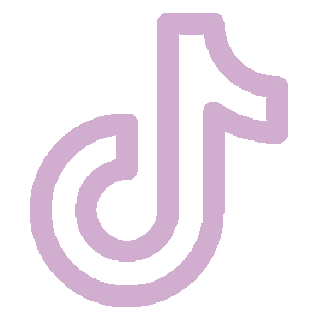
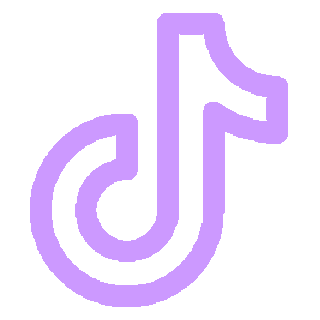
Add band design template

Changed region(s): [[0.0938, 0.0312, 0.9062, 0.9688]]

diff --git a/index.html b/index.html
@@ -16,6 +16,7 @@
     <meta http-equiv='expires' content='0'>
     <meta http-equiv='pragma' content='no-cache'>
     <link href="https://2sotypen.de" rel="canonical">
+    <link rel="stylesheet" href="https://cdn.jsdelivr.net/npm/bootstrap@4.3.1/dist/css/bootstrap.min.css" integrity="sha384-ggOyR0iXCbMQv3Xipma34MD+dH/1fQ784/j6cY/iJTQUOhcWr7x9JvoRxT2MZw1T" crossorigin="anonymous">
     <link rel="stylesheet" href="/style.css">
     <script src="/script.js"></script>
     <title>2sotypen | aus Rodgau</title>
@@ -88,6 +89,30 @@
         <section>
           <h3 id="gallery">2sotypen Live</h3>
 
+            <!-- CAROUSEL START -->
+            <div id="imageCarousel" class="carousel slide mb-5" data-ride="carousel">
+              <div class="carousel-inner mx-auto">
+                  <div class="carousel-item active">
+                      <img src="/img/logo/logo_black.png" class="d-block w-100" alt="">
+                  </div>
+                  <div class="carousel-item">
+                      <img src="/img/logo/logo_blue.png" class="d-block w-100" alt="">
+                  </div>
+                  <div class="carousel-item">
+                    <img src="/img/logo/logo_lila.png" class="d-block w-100" alt="">
+                </div>
+              </div>
+              <a class="carousel-control-prev" href="#imageCarousel" role="button" data-slide="prev">
+                  <span class="carousel-control-prev-icon" aria-hidden="true"></span>
+                  <span class="sr-only">next</span>
+              </a>
+              <a class="carousel-control-next" href="#imageCarousel" role="button" data-slide="next">
+                  <span class="carousel-control-next-icon" aria-hidden="true"></span>
+                  <span class="sr-only">previous</span>
+              </a>
+          </div>
+          <!-- CAROUSEL END -->
+
           <div class="container">
 
 
@@ -151,7 +176,6 @@
                 <a href="https://www.instagram.com/2sotypen/"><img class="contact-icon" src="/img/ico/instagram.png" alt="Link für Instagram"></a>
                 <a href="https://www.facebook.com/2sotypen/"><img class="contact-icon" src="/img/ico/facebook.png" alt="Link für Facebook"></a>
                 <a href="https://www.tiktok.com/@2sotypen"><img class="contact-icon" src="/img/ico/tiktok.png" alt="Link für Tiktok"></a>
-                <a href=""><img class="contact-icon" src="/img/ico/linkedin.png" alt="Link für YouTube"></a>
                 <a href="https://www.youtube.com/@2sotypen"><img class="contact-icon" src="/img/ico/youtube.png" alt="Link für YouTube"></a>
               </address>
               <!-- END CONTACT SECTION-->
@@ -176,7 +200,11 @@
       <p id="copyright">&copy; 2024 2sotypen</p>
     </footer>
     <!-- END FOOTER -->
-  
+
+    <script src="https://code.jquery.com/jquery-3.3.1.slim.min.js" integrity="sha384-q8i/X+965DzO0rT7abK41JStQIAqVgRVzpbzo5smXKp4YfRvH+8abtTE1Pi6jizo" crossorigin="anonymous"></script>
+    <script src="https://cdn.jsdelivr.net/npm/popper.js@1.14.7/dist/umd/popper.min.js" integrity="sha384-UO2eT0CpHqdSJQ6hJty5KVphtPhzWj9WO1clHTMGa3JDZwrnQq4sF86dIHNDz0W1" crossorigin="anonymous"></script>
+    <script src="https://cdn.jsdelivr.net/npm/bootstrap@4.3.1/dist/js/bootstrap.min.js" integrity="sha384-JjSmVgyd0p3pXB1rRibZUAYoIIy6OrQ6VrjIEaFf/nJGzIxFDsf4x0xIM+B07jRM" crossorigin="anonymous"></script>
+
   </body>
   <!-- END BODY -->
 

diff --git a/style.css b/style.css
@@ -3,8 +3,12 @@
   --color-white: #FFFFFF;
   --color-black: #000000;
   --color-grey: #333333;
-  --color-blue: #63add2;
-  --color-pink: #d1adcf;
+  --color-turqouise: #66ffb3;
+  --color-green: #c2fc00;
+  --color-lila: #cc99ff;
+  --color-yellow: #ffff99;
+  --color-blue: #87f2f2;
+  --color-apricot: #ff7373;
   --font-family-futura: 'Futura', Arial, sans-serif;
   --font-family-jellyka: 'Jellyka', Arial, sans-serif;
   --font-size-big: calc(4rem + 2vw);
@@ -19,16 +23,14 @@
        url('../font/Futura.ttf') format('woff'),
        url('../font/Futura.ttf')  format('truetype'),
        url('../font/Futura.ttf') format('svg');
-}
-
-@font-face {
+  
   font-family: 'Jellyka';
   src: url('../font/Jellyka.ttf');
   src: url('../font/Jellyka.ttf') format('embedded-opentype'),
-       url('../font/Jellyka.ttf') format('woff2'),
-       url('../font/Jellyka.ttf') format('woff'),
-       url('../font/Jellyka.ttf')  format('truetype'),
-       url('../font/Jellyka.ttf') format('svg');
+      url('../font/Jellyka.ttf') format('woff2'),
+      url('../font/Jellyka.ttf') format('woff'),
+      url('../font/Jellyka.ttf')  format('truetype'),
+      url('../font/Jellyka.ttf') format('svg');
 }
 
 * {
@@ -84,7 +86,6 @@ display: flex;
 flex-direction: column;
 align-items: center;
 text-align: center;
-padding: 5px;
 }
 
 nav {
@@ -114,6 +115,32 @@ section {
 
 .container {
   padding: 20px;
+}
+
+.carousel-container {
+  display: flex;
+  justify-content: center;
+  align-items: center;
+  height: 100vh; /* Full viewport height */
+  overflow: hidden;
+}
+
+.carousel {
+  width: 100%; /* Full width */
+  overflow: hidden;
+}
+
+.carousel-inner {
+  display: flex;
+}
+
+.carousel-item {
+  flex: 0 0 100vw; /* Full viewport width */
+}
+
+.carousel-item img {
+  width: 100%;
+  height: auto;
 }
 
 address {
